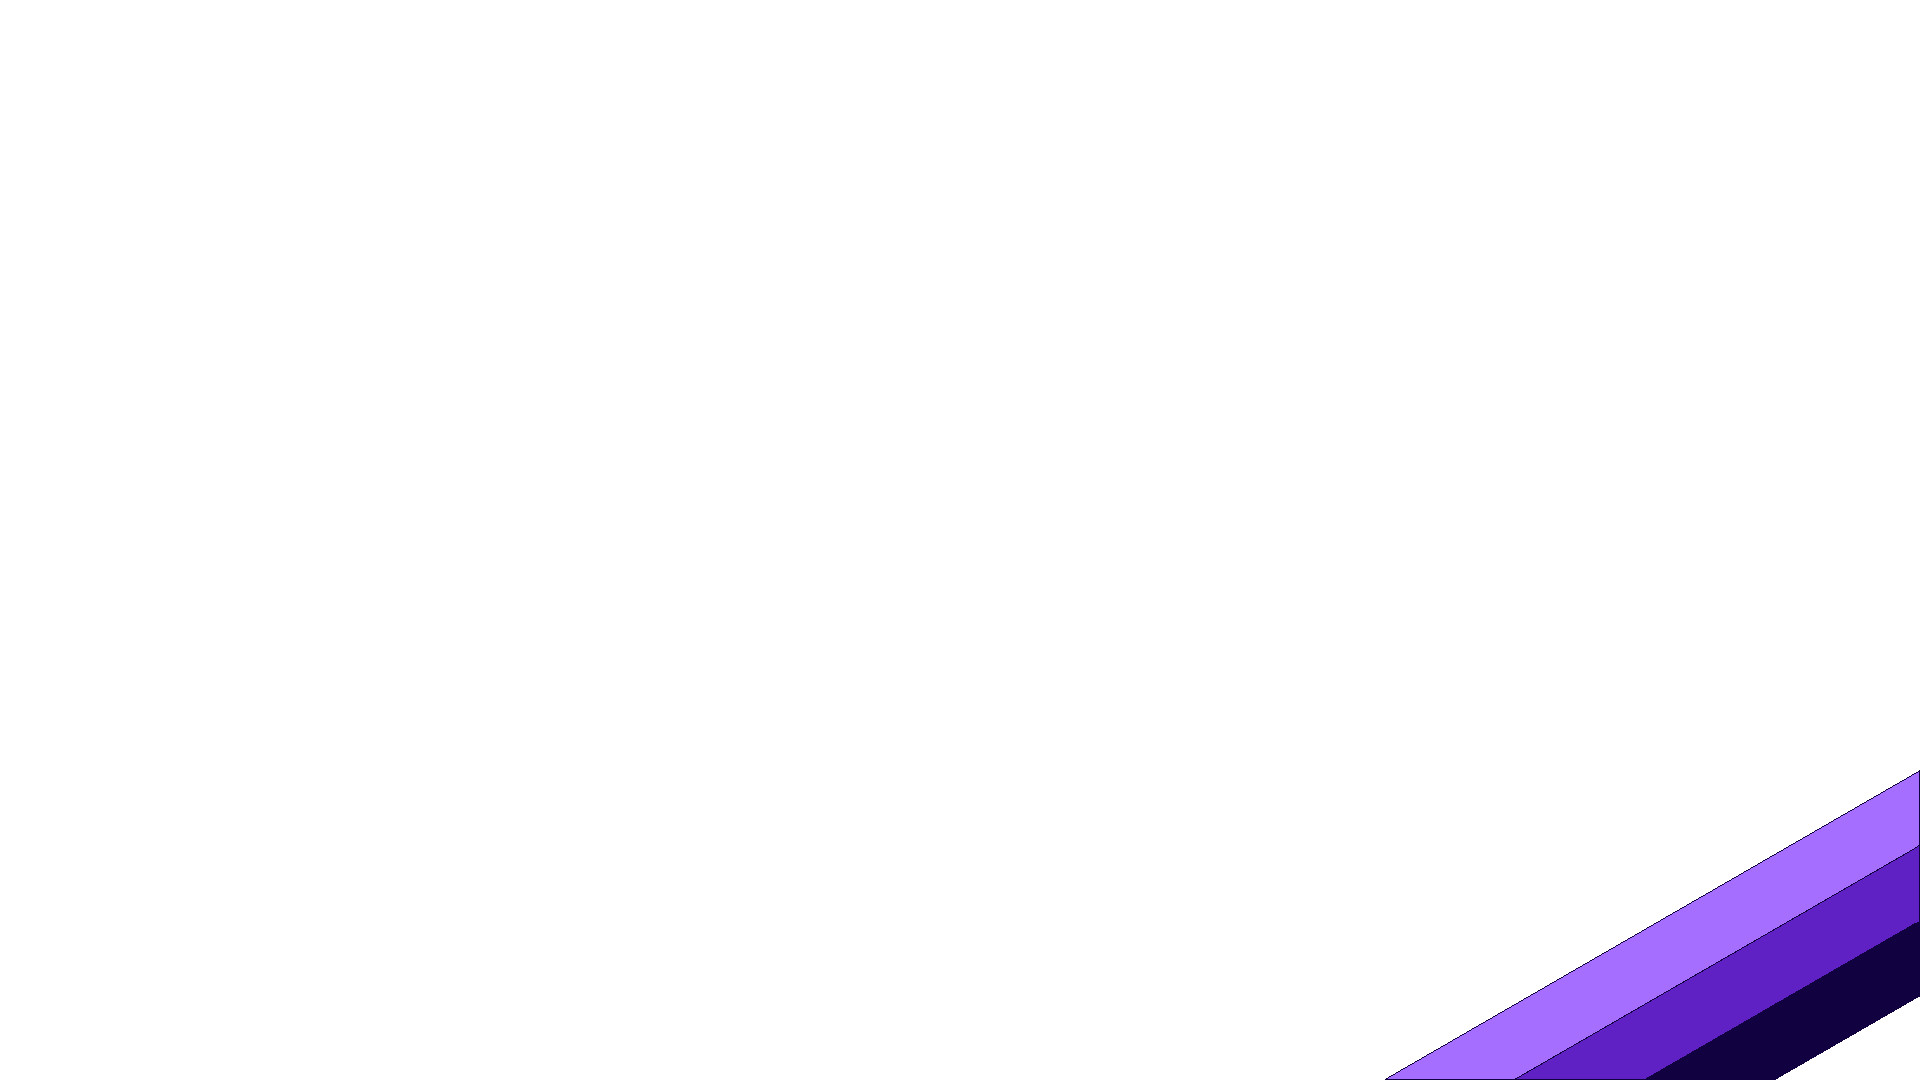
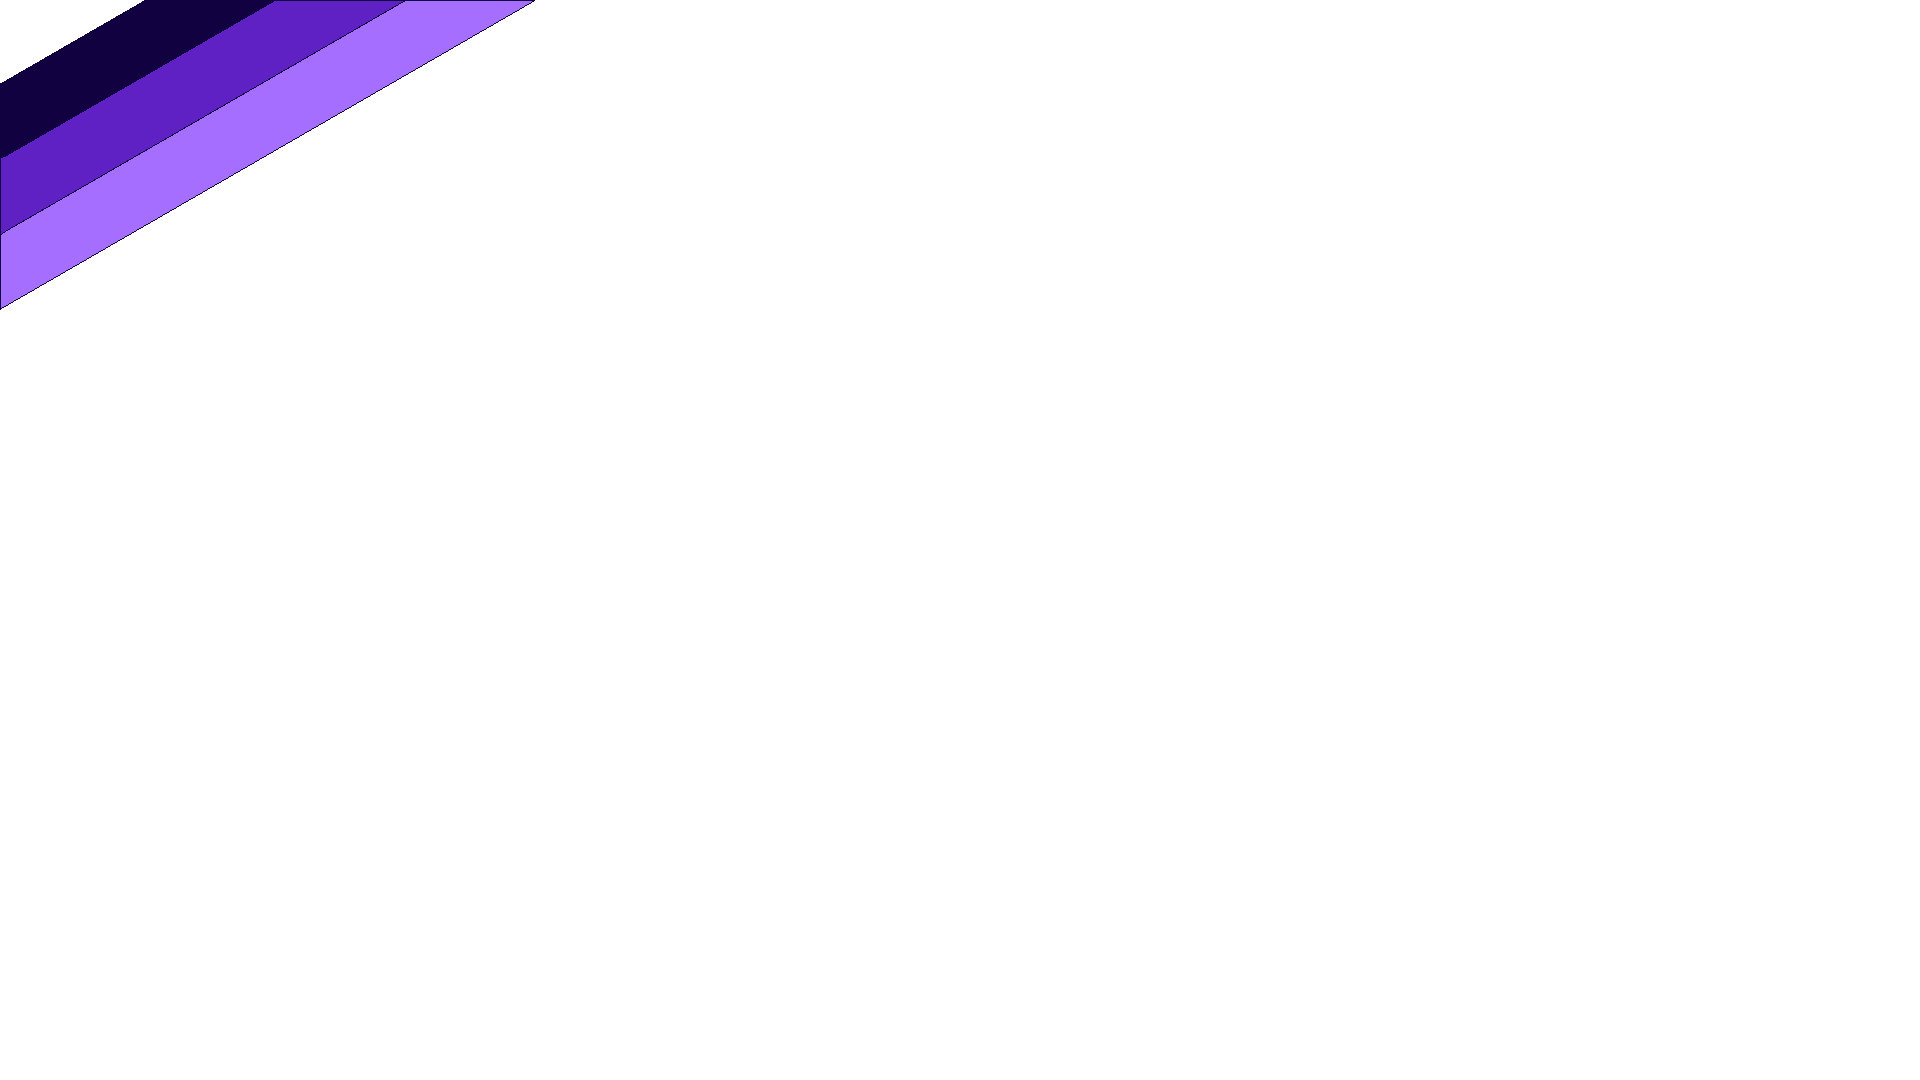
dashboard and canvas changes

Changed region(s): [[0.7188, 0.7028, 1.0, 1.0], [0.0, 0.0, 0.2812, 0.275]]

diff --git a/src/components/canvas/Canvas.js b/src/components/canvas/Canvas.js
@@ -44,6 +44,10 @@ function Canvas() {
             contextRef.current.beginPath()
             contextRef.current.moveTo(offsetX, offsetY)
         }
+        if (properties.tool === 'rectangle') {
+            const { offsetX, offsetY } = nativeEvent;
+            contextRef.current.moveTo(offsetX, offsetY)
+        }
         if (properties.tool === 'free') {
             const { offsetX, offsetY } = nativeEvent;
             contextRef.current.beginPath()
@@ -57,6 +61,9 @@ function Canvas() {
             contextRef.current.lineTo(offsetX, offsetY);
             contextRef.current.stroke();
             contextRef.current.closePath()
+        }
+        if (properties.tool === 'rectangle') {
+            console.log(contextRef.current)
         }
         if (properties.tool === 'free') {
             contextRef.current.closePath()
@@ -79,16 +86,29 @@ function Canvas() {
     }
     return (
         <Layout>
-            <div>
-                <label>Height</label>
-                <input type='range' min={1} max={2000} name='height' value={screenSize.height} onChange={handleChangeSize} />
-                <label>Size</label>
-                <input type='range' min={1} max={300} name='size' value={properties.size} onChange={handlePropertyChange} />
-                <input type='color' name='color' value={properties.color} onChange={handlePropertyChange} />
-                <select name='tool' value={properties.tool} onChange={handlePropertyChange}>
-                    <option value='free'>Free</option>
-                    <option value='straight'>Straight</option>
-                </select>
+            <div className='canvasSettings'>
+                <div>
+                    <label className='settingsItem' >Height</label>
+                    <input className='settingsItem' type='range' min={1} max={2000} name='height' value={screenSize.height} onChange={handleChangeSize} />
+                    <label className='settingsItem' >Width</label>
+                    <input className='settingsItem' type='range' min={1} max={2000} name='width' value={screenSize.width} onChange={handleChangeSize} />
+                    <label className='settingsItem' >Brush Size</label>
+                    <input className='settingsItem' type='range' min={.5} max={300} name='size' value={properties.size} onChange={handlePropertyChange} />
+                </div>
+                <div className='flexSettings'>
+                    <div className='flexSettingsItem'>
+                        <label>Brush Color: </label>
+                        <input type='color' name='color' value={properties.color} onChange={handlePropertyChange} />
+                    </div>
+                    <div className='flexSettingsItem'>
+                        <label>Tool: </label>
+                        <select name='tool' value={properties.tool} onChange={handlePropertyChange}>
+                            <option value='free'>Free</option>
+                            <option value='straight'>Straight</option>
+                            <option value='rectangle'>Rectangle</option>
+                        </select>
+                    </div>
+                </div>
             </div>
             <canvas
                 onMouseDown={startDrawing}

diff --git a/src/components/dashboard/dashboard.css b/src/components/dashboard/dashboard.css
@@ -2,37 +2,55 @@
     width: 0px;
 }
 .dashboardBody {
-    height: 100vh;
     width: 100%;
-    background-image: url('../../images/stripesBackground4.jpg');
+    height: 100vh;
+    padding: 50px 0;
+    background-image: url('../../images/stripesBackground.jpg');
     background-size: cover;
     background-position: bottom right;
-}
-.dbFlex {
+    background-attachment: fixed;
+    background-repeat: no-repeat;
     display: flex;
     justify-content: center;
+    overflow: hidden;
+}
+.dbHeader {
+    text-align: center;
 }
 .dbUserInfo {
     width: 20%;
     height: fit-content;
     min-width: 200px;
-    padding: 10px;
+    text-align: center;
     margin: 20px 5px;
     box-shadow: 0 1px 2px 0 rgba(60, 64, 67, .3), 0 2px 6px 2px rgba(60, 64, 67, .15);
     border-radius: 3px;
-    background-color: rgba(255, 255, 255, .8);
+    /* background-image: url('../../images/stripesBackground3.jpg'); */
+    background-size: cover;
+    background-position: top left;
+    background-color: rgba(255, 255, 255, .95);
+}
+.dbUserCover {
+    padding: 20px 10px;
+    /* background-color: rgba(255, 255, 255, .6); */
+    border-radius: 3px;
 }
 .dbEntries {
     width: 40%;
     min-width: 300px;
-    height: fit-content;
-    max-height: calc(100vh - 230px);
-    padding: 10px;
-    margin: 20px 5px;
-    box-shadow: 0 1px 2px 0 rgba(60, 64, 67, .3), 0 2px 6px 2px rgba(60, 64, 67, .15);
-    border-radius: 3px;
-    background-color: rgba(255, 255, 255, .8);
+    height: 100vh;
+    margin: 10px 5px;
     overflow: auto;
+    padding-bottom: 70px;
+}
+.dbEntryItem {
+    background-color: rgb(255, 255, 255);
+    margin: 10px;
+    padding: 10px;
+    border-radius: 3px;
+    height: fit-content;
+    box-shadow: 0 1px 2px 0 rgba(60, 64, 67, .3), 0 2px 6px 2px rgba(60, 64, 67, .15);
+    transition: all .3s;
 }
 .dbEvents {
     width: 30%;
@@ -43,10 +61,4 @@
     box-shadow: 0 1px 2px 0 rgba(60, 64, 67, .3), 0 2px 6px 2px rgba(60, 64, 67, .15);
     border-radius: 3px;
     background-color: rgba(255, 255, 255, .8);
-}
-.dbEntryItem {
-    margin: 10px;
-    height: fit-content;
-    overflow: hidden;
-    transition: all .3s;
 }

diff --git a/src/components/dashboard/Dashoboard.js b/src/components/dashboard/Dashoboard.js
@@ -29,34 +29,34 @@ function Dashboard(props) {
   }, [userState.loggedIn]);
 
   return (
-    <div className="dashboardBody">
-      <Layout>
-        <div className='dbFlex'>
-          <div className='dbUserInfo'>
+    <Layout>
+      <div className="dashboardBody">
+        <div className='dbUserInfo'>
+          <div className='dbUserCover'>
             <h1>{userState.name}</h1>
             <hr />
             <h2>{userState.email}</h2>
           </div>
-          <div className='dbEntries'>
-            <h1>Recent Entries</h1>
-            {entries.map((entry) => {
-              return (
-                <div key={entry._id}>
-                  <hr />
-                  <div className='dbEntryItem'>
-                    <h2>{entry.title}</h2>
-                    <p>{entry.content}</p>
-                  </div>
-                </div>
-              )
-            })}
-          </div>
-          <div className='dbEvents'>
-            <h1>Events</h1>
-          </div>
         </div>
-      </Layout>
-    </div>
+        <div className='dbEntries'>
+          <h1 className='dbEntryItem dbHeader'>Recent Entries</h1>
+          {entries.map((entry) => {
+            return (
+              <div key={entry._id}>
+                <div className='dbEntryItem'>
+                  <h2>{entry.title}</h2>
+                  <hr />
+                  <p>{entry.content}</p>
+                </div>
+              </div>
+            )
+          })}
+        </div>
+        <div className='dbEvents'>
+          <h1 className='dbHeader'>Events</h1>
+        </div>
+      </div>
+    </Layout>
   );
 }
 

diff --git a/src/components/canvas/canvas.css b/src/components/canvas/canvas.css
@@ -4,4 +4,33 @@ canvas {
     display: block;
     margin: 10px auto;
     background-color: rgb(222, 222, 228);
+    max-width: 100%;
+}
+canvas:hover {
+    cursor: crosshair;
+}
+.canvasSettings {
+    box-shadow:  0 1px 2px 0 rgba(60,64,67,.30), 0 2px 6px 2px rgba(60,64,67,.20);
+    border-radius: 3px;
+    margin: 70px 20px 30px 20px;
+    padding: 5px 20px;
+    font-size: 20px;
+}
+input[type=color] {
+    width: 100px;
+    height: 30px;
+    margin: 0;
+}
+.flexSettings {
+    display: flex;
+    justify-content: space-evenly;
+    align-items: center;
+}
+.flexSettingsItem {
+    display: flex;
+    justify-content: space-between;
+    align-items: center;
+}
+.settingsItem {
+    margin: 0 auto;
 }
